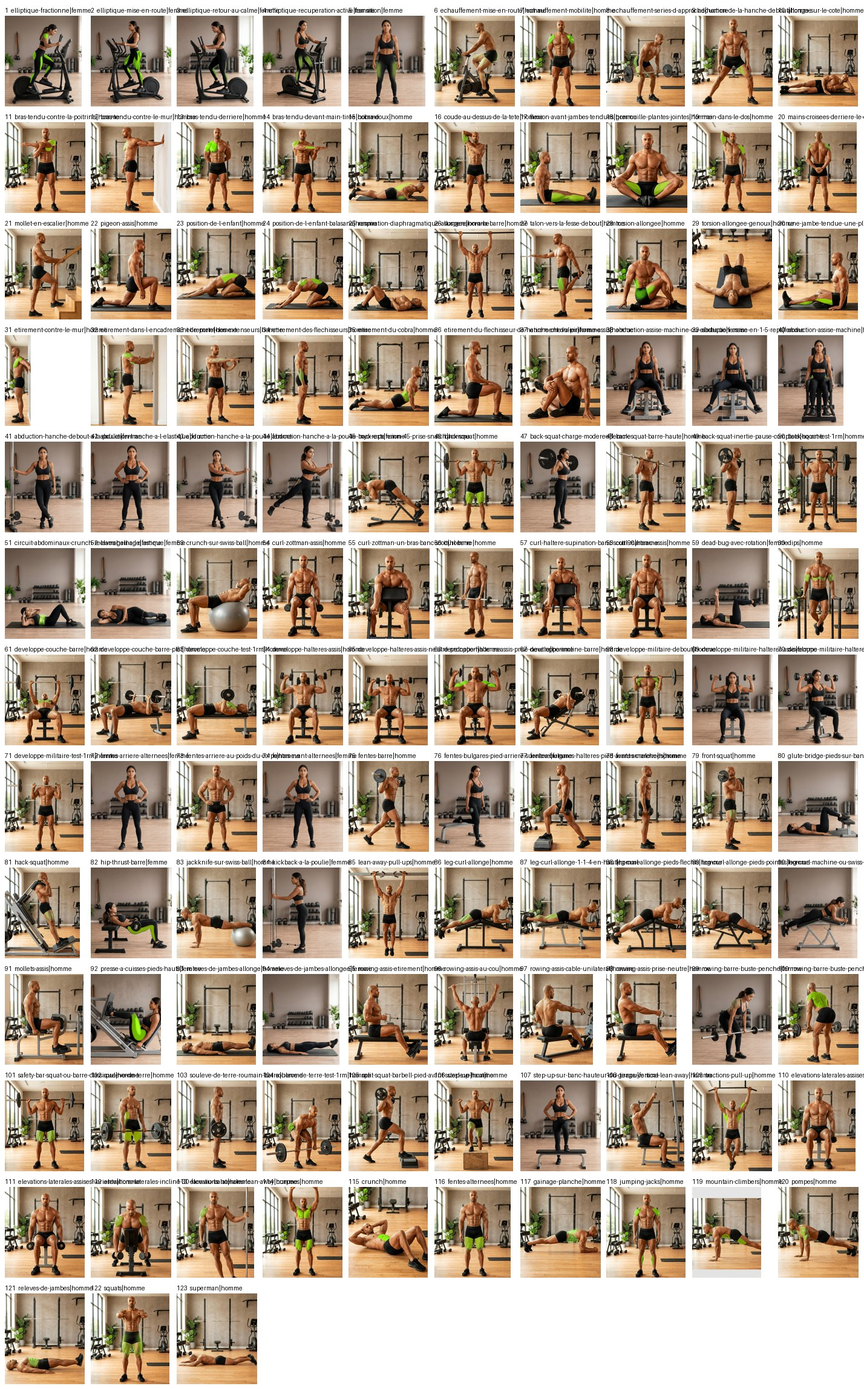
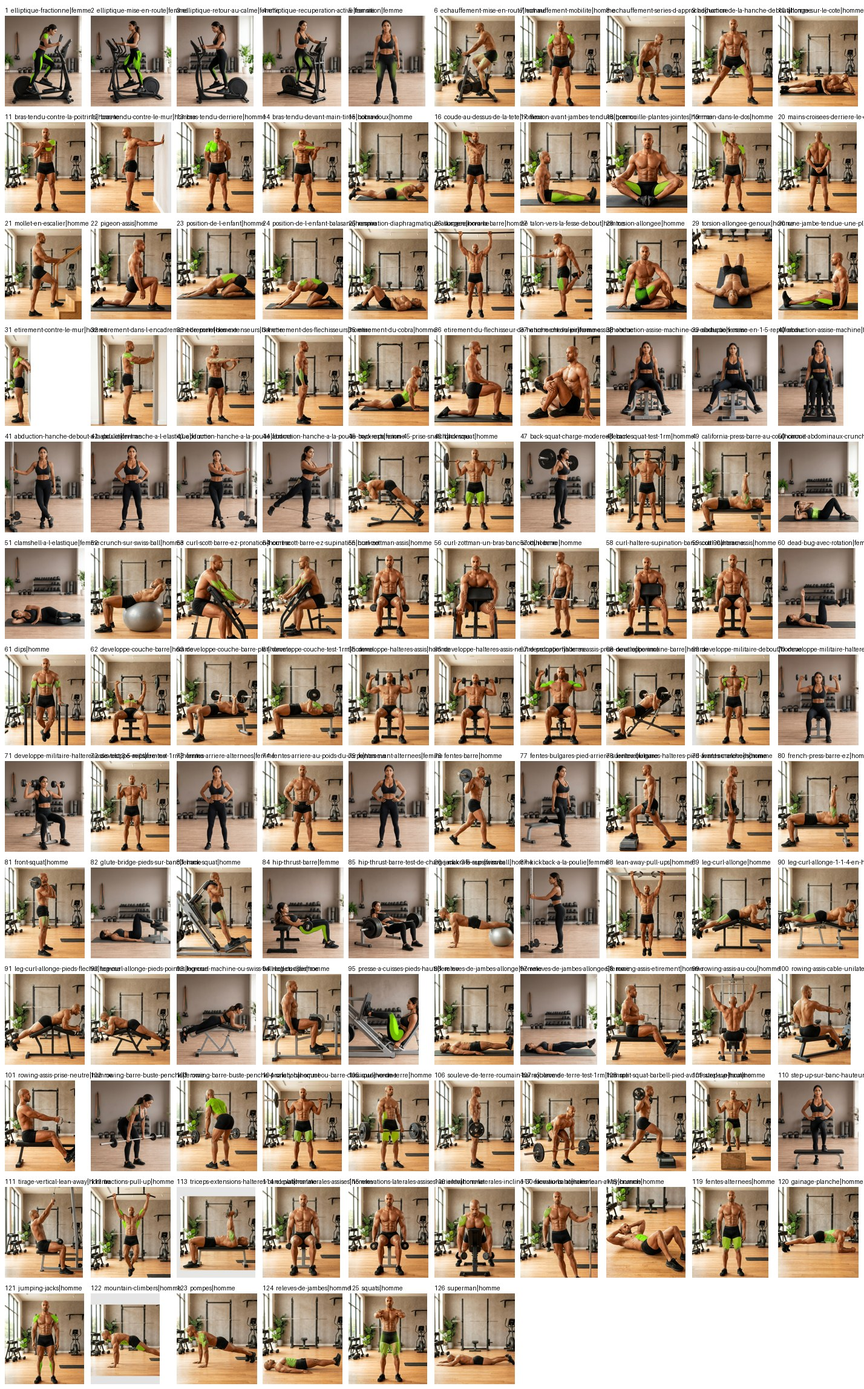
Lot 18 : 6 acceptees, 4 refusees ; relecture batch 2 : 3 valides retires (barre qui saute, burpees inverses) — 126/331

diff --git a/evolution/media/refonte-photo/PASSATION-NOUVEAU-CHAT.md b/evolution/media/refonte-photo/PASSATION-NOUVEAU-CHAT.md
@@ -10,13 +10,14 @@ session neuve (sans mémoire de la conversation précédente) puisse continuer s
 - Dépôt : `Yandevil974/JARVIS-Fitness-Yanis-Emilie.apk`
 - Branche de travail **obligatoire** : `arena/01a0d51c-jarvis-fitness-yanis-emilie-ap`
   (ne jamais pousser sur `main`, ne jamais créer d'autre branche).
-- Avancement : **123 / 331 animations validées** (`production/etat.json`, clé `chiffres`).
-  Restent **208** : musculation 126, piscine (protocoles) 40, tabata au sol 27,
+- Avancement : **126 / 331 animations validées** (`production/etat.json`, clé `chiffres`).
+  Restent **205** : musculation 123, piscine (protocoles) 40, tabata au sol 27,
   piscine (guides) 9, aqua tabata 6.
   Terminés : **étirements 29 ✅, elliptique 5 ✅, échauffement 3 ✅**.
-- **Vérification des mouvements déjà créés (25/09)** : 48 couples relus case par case
-  (`verification/VERIFICATION-2026-09-25.md`) ; 4 gestes faux trouvés parmi les livrés,
-  refaits et acceptés au lot 17 ; **75 couples restent à relire** (feuilles de 3).
+- **Vérification des mouvements déjà créés (25/09)** : 70 couples relus case par case
+  (`verification/VERIFICATION-2026-09-25.md`) ; 7 gestes faux trouvés parmi les livrés
+  (4 refaits et acceptés au lot 17 ; 3 retirés des valides ce tour : back-squat-barre-haute,
+  back-squat-inertie-pause-complete, burpees) ; **69 couples restent à relire** (feuilles de 3).
   Style : 21 GIF ont une case sans vert lime (`production/style-a-reprendre.json`),
   à reprendre dans un lot dédié sans toucher aux gestes.
 - Index visuel numéroté : `review/index-general.jpg` (119 vignettes, régénéré à chaque lot).
@@ -115,16 +116,16 @@ $P evolution/media/tools/refonte-sheet.py --athlete homme --out $R/gif/homme \
 
 ## 7. À faire au démarrage du nouveau chat
 
-1. Reprendre les **2 planches en attente** listées dans `production/a-refaire.json`
-   (`aRefaire`), toutes deux déjà refusées DEUX fois : back-extension-horizontal
-   (banc **horizontal**, mains croisées sur la poitrine dès la case de départ) et
-   triceps-extensions-halteres-banc-plat (athlète **allongé à plat**, coudes qui plient).
-   `elevations-laterales-incline-30-face-au-banc` est acceptée depuis le lot 17
-   (vert sur les deltoïdes).
+1. Reprendre les **7 planches en attente** listées dans `production/a-refaire.json`
+   (`aRefaire`) : back-extension-horizontal (3ᵉ refus : mains croisées DÈS la case de
+   départ), rowing-barre-ez-supination-buste-penche (barre EZ, pas un haltère),
+   curl-poulie-basse (même cadrage aux deux cases), rowing-barre-buste-penche-test-3-5-reps
+   (tirage visible en case de fin), back-squat-barre-haute et back-squat-inertie-pause-complete
+   (barre SUR LE DOS dans les DEUX cases), burpees (planche à gauche, saut à droite).
 2. Continuer la relecture des **75 couples déjà valides non relus** (feuilles de 3,
    `feuilles-verif.py`), puis le lot « style » des 21 GIF sans vert sur une case
    (`production/style-a-reprendre.json`).
-3. Continuer la musculation (126 restants), puis
+3. Continuer la musculation (123 restants), puis
    **tabata au sol (27)**, **piscine guides (9)**, **piscine protocoles (40)**,
    **aqua tabata (6)** — par lots de ≤ 10.
 3. Après chaque lot : convertir, relire, mettre à jour `etat.json`, `a-refaire.json`,

diff --git a/evolution/media/refonte-photo/verification/VERIFICATION-2026-09-25.md b/evolution/media/refonte-photo/verification/VERIFICATION-2026-09-25.md
@@ -68,9 +68,35 @@ planches concernées), sans toucher aux gestes.
 Autre artefact noté : `mountain-climbers|homme` montre des bandes grises de recalage en haut
 des cases — à reprendre dans le même lot style.
 
-## 5. Couverture et suite
+## 5. Lot 18 (10 planches, même tour) et relecture — batch 2
 
-Relus ce tour : **48 couples** (38 livrés + 10 lot 17). Restent à relire : **75** des 123
-valides (feuilles de 3, mêmes outils, aucun raccourci). Production : **123 / 331**,
-restants 208 (musculation 126, protocoles piscine 40, tabata au sol 27, piscine guides 9,
-aqua tabata 6) ; 2 planches en attente de 3ᵉ essai (`production/a-refaire.json`).
+**Lot 18** : 3ᵉ essai des 2 planches en attente + 8 mouvements neufs. Acceptées 6 :
+triceps-extensions-halteres-banc-plat (enfin allongé à plat, coudes qui plient),
+california-press-barre-au-cou (prise serrée, barre au cou), curl-scott-barre-ez-pronation,
+curl-scott-barre-ez-supination (prises opposées, bras posés sur le pad),
+french-press-barre-ez, hip-thrust-barre-test-de-charge-max-3-5-reps (vue 3/4 avant,
+différente du hip thrust livré). Refusées 4 : back-extension-horizontal (3ᵉ refus : banc
+horizontal enfin juste mais bras pendant au départ au lieu de mains croisées),
+rowing-barre-ez-supination-buste-penche (un haltère dessiné au lieu de la barre EZ),
+curl-poulie-basse (cadrage différent entre les deux cases),
+rowing-barre-buste-penche-test-3-5-reps (aucun tirage en case de fin).
+Feuilles : `verification/lot18-01..04.jpg`.
+
+**Relecture batch 2** (12 couples valides, feuilles `verification/relecture-02-01..04.jpg`) :
+conformes 9 (adduction hanche debout, allongé sur le côté, bras tendu contre la poitrine /
+contre le mur / derrière / devant main tirée, back-squat, back-squat-test-1rm,
+circuit-abdominaux-crunch-releves-gainage) ; **refusés 3** : back-squat-barre-haute et
+back-squat-inertie-pause-complete (barre en rack AVANT à gauche puis SUR LE DOS à droite :
+la barre saute), burpees (cases inversées : saut à gauche, planche à droite).
+Ces 3 GIF sont retirés des valides et repassent en production.
+
+## 6. Couverture et suite
+
+Relus ce tour : **70 couples** (38 livrés + 10 lot 17 + 12 relecture + 10 lot 18).
+Sur les **126 valides** actuels, **69 restent à relire** (feuilles de 3, mêmes outils).
+Production : **126 / 331** ; restants 205 (musculation 123, protocoles piscine 40,
+tabata au sol 27, piscine guides 9, aqua tabata 6). **7 planches en attente** dans
+`production/a-refaire.json` : back-extension-horizontal (3ᵉ refus),
+rowing-barre-ez-supination-buste-penche, curl-poulie-basse,
+rowing-barre-buste-penche-test-3-5-reps, back-squat-barre-haute,
+back-squat-inertie-pause-complete, burpees.

diff --git a/PASSATION.md b/PASSATION.md
@@ -13,15 +13,15 @@ deux GIF distincts (l'un à l'homme, l'autre à la femme). L'écart inexpliqué 
 
 | Surface | Faits et vérifiés | Restants |
 |---|---|---|
-| Musculation | 76 | 126 |
-| Tabata au sol | 10 | 27 |
+| Musculation | 80 | 123 |
+| Tabata au sol | 9 | 27 |
 | Étirements | 29 | 0 ✅ |
 | Piscine (guides) | 0 | 9 |
 | Piscine (protocoles) | 0 | 40 |
 | Aqua Tabata | 0 | 6 |
 | Elliptique | 5 | 0 ✅ |
 | Échauffement | 3 | 0 ✅ |
-| **Total** | **123** | **208** |
+| **Total** | **126** | **205** |
 
 **25 septembre 2026 — reprise dans un nouveau chat : les mouvements déjà créés ont été
 vérifiés avant de produire.** 119 GIF livrés mesurés (`evolution/media/tools/verif-gifs.py` :
